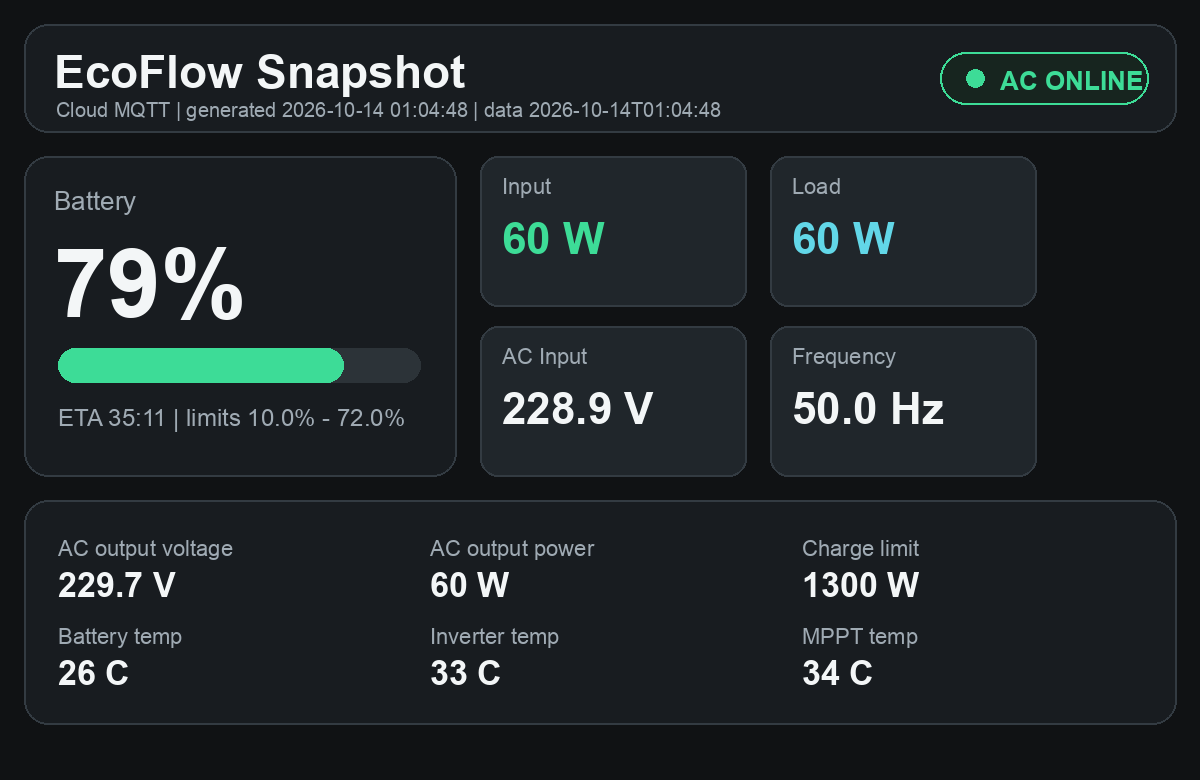
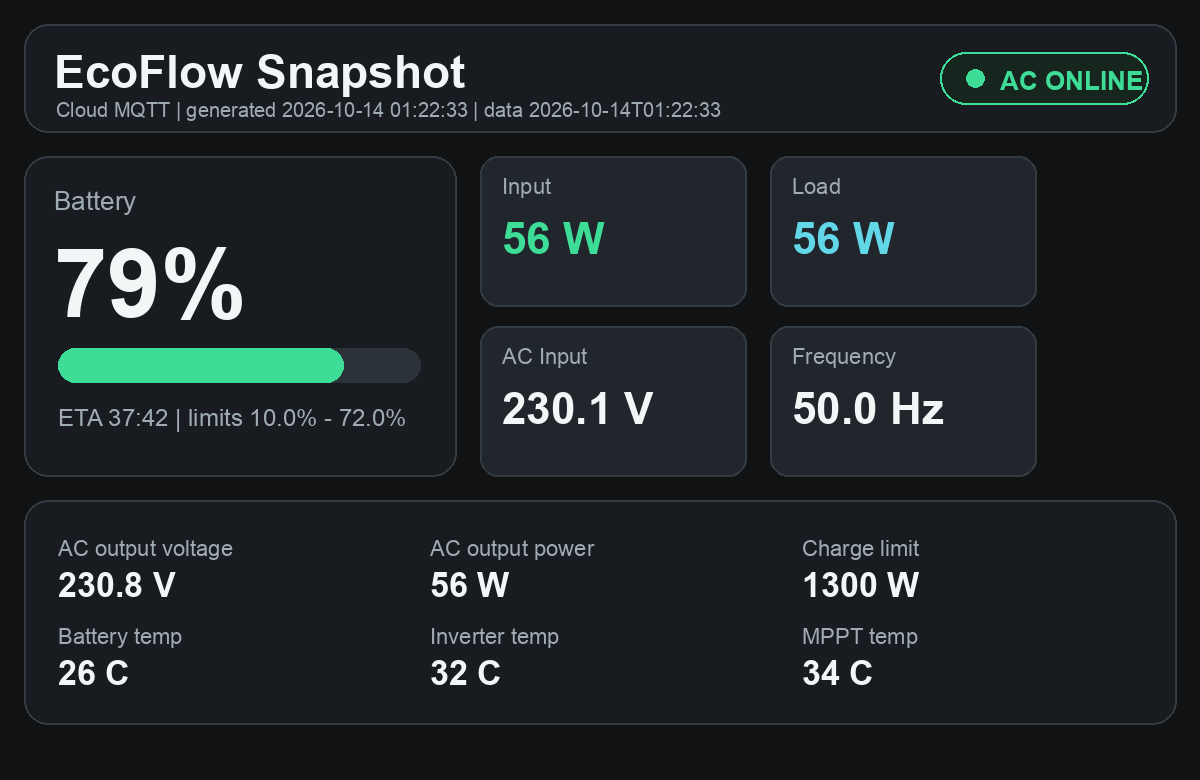
Update EcoFlow dashboard 2026-10-14 01:22:34

diff --git a/index.html b/index.html
@@ -177,7 +177,7 @@
   <header>
     <div>
       <h1>EcoFlow Snapshot</h1>
-      <div class="sub">Cloud MQTT · generated 2026-10-14T01:04:48 · data 2026-10-14T01:04:48</div>
+      <div class="sub">Cloud MQTT · generated 2026-10-14T01:22:33 · data 2026-10-14T01:22:33</div>
     </div>
     <div class="status online"><span class="dot"></span><span>AC online</span></div>
   </header>
@@ -189,22 +189,22 @@
       <h2>Battery</h2>
       <div class="value">79%</div>
       <div class="battery"><div class="fill"></div></div>
-      <div class="row"><span>ETA</span><span>35:11</span></div>
+      <div class="row"><span>ETA</span><span>37:42</span></div>
       <div class="row"><span>SOC limits</span><span>10.0% - 72.0%</span></div>
     </section>
     <section>
       <h2>AC</h2>
-      <div class="row"><span>Input voltage</span><span>228.9 V</span></div>
+      <div class="row"><span>Input voltage</span><span>230.1 V</span></div>
       <div class="row"><span>Input frequency</span><span>50.0 Hz</span></div>
-      <div class="row"><span>Output voltage</span><span>229.7 V</span></div>
+      <div class="row"><span>Output voltage</span><span>230.8 V</span></div>
     </section>
   </div>
 
   <div class="cards">
-    <div class="card"><span class="label">Input</span><span class="value">60 W</span></div>
-    <div class="card"><span class="label">Load</span><span class="value">60 W</span></div>
+    <div class="card"><span class="label">Input</span><span class="value">56 W</span></div>
+    <div class="card"><span class="label">Load</span><span class="value">56 W</span></div>
     <div class="card"><span class="label">Battery temp</span><span class="value">26°C</span></div>
-    <div class="card"><span class="label">Inverter temp</span><span class="value">33°C</span></div>
+    <div class="card"><span class="label">Inverter temp</span><span class="value">32°C</span></div>
   </div>
 
   
@@ -217,7 +217,7 @@
         <div class="daily-item"><span class="label">Зарядний ліміт</span><strong>1300 W</strong><small>пік входу 1228 W · 94% ліміту</small></div>
         <div class="daily-item"><span class="label">Заряджання</span><strong>3 хв</strong><small>останнє 14.10 00:29</small></div>
         <div class="daily-item"><span class="label">Розряджання</span><strong>0 сек</strong><small>--</small></div>
-        <div class="daily-item"><span class="label">Енергія вхід / вихід</span><strong>340 Wh / 279 Wh</strong><small>оцінка за sample-ами</small></div>
+        <div class="daily-item"><span class="label">Енергія вхід / вихід</span><strong>356 Wh / 295 Wh</strong><small>оцінка за sample-ами</small></div>
         <div class="daily-item"><span class="label">Частота min / max</span><strong>50.0 Hz / 50.0 Hz</strong><small>13.10 01:34 / 13.10 01:34</small></div>
       </div>
     </section>
@@ -243,28 +243,28 @@
   &quot;ok&quot;: true,
   &quot;source&quot;: &quot;Cloud MQTT&quot;,
   &quot;device&quot;: &quot;DELTA Pro&quot;,
-  &quot;timestamp&quot;: &quot;2026-10-14T01:04:48&quot;,
+  &quot;timestamp&quot;: &quot;2026-10-14T01:22:33&quot;,
   &quot;grid&quot;: true,
   &quot;battery&quot;: {
     &quot;soc&quot;: 79,
     &quot;min&quot;: 10.0,
     &quot;max&quot;: 72.0,
-    &quot;eta&quot;: &quot;35:11&quot;
+    &quot;eta&quot;: &quot;37:42&quot;
   },
   &quot;power&quot;: {
-    &quot;in&quot;: 60,
-    &quot;out&quot;: 60,
-    &quot;acOut&quot;: 60,
+    &quot;in&quot;: 56,
+    &quot;out&quot;: 56,
+    &quot;acOut&quot;: 56,
     &quot;chargeLimit&quot;: 1300
   },
   &quot;ac&quot;: {
-    &quot;inputVoltage&quot;: 228.933,
+    &quot;inputVoltage&quot;: 230.056,
     &quot;inputFreq&quot;: 50.0,
-    &quot;outputVoltage&quot;: 229.746
+    &quot;outputVoltage&quot;: 230.849
   },
   &quot;temps&quot;: {
     &quot;battery&quot;: 26,
-    &quot;inverter&quot;: 33,
+    &quot;inverter&quot;: 32,
     &quot;mppt&quot;: 34
   },
   &quot;history&quot;: [
@@ -328,16 +328,16 @@
   ],
   &quot;telemetry&quot;: {
     &quot;window&quot;: &quot;24h&quot;,
-    &quot;sample_count&quot;: 134,
+    &quot;sample_count&quot;: 148,
     &quot;from&quot;: &quot;2026-10-13T01:34:49&quot;,
-    &quot;to&quot;: &quot;2026-10-14T01:04:48&quot;,
+    &quot;to&quot;: &quot;2026-10-14T01:22:33&quot;,
     &quot;latest&quot;: {
       &quot;mode&quot;: &quot;idle&quot;,
       &quot;grid&quot;: true,
       &quot;soc&quot;: 79.0,
-      &quot;ac_v&quot;: 228.933,
-      &quot;in_w&quot;: 60.0,
-      &quot;out_w&quot;: 60.0,
+      &quot;ac_v&quot;: 230.056,
+      &quot;in_w&quot;: 56.0,
+      &quot;out_w&quot;: 56.0,
       &quot;charge_limit_w&quot;: 1300.0
     },
     &quot;voltage&quot;: {
@@ -383,16 +383,16 @@
       },
       &quot;charge_limit_w&quot;: 1300.0,
       &quot;max_input_pct_of_current_limit&quot;: 94,
-      &quot;input_wh_est&quot;: 340.1,
-      &quot;load_wh_est&quot;: 278.7
+      &quot;input_wh_est&quot;: 356.0,
+      &quot;load_wh_est&quot;: 294.6
     },
     &quot;modes&quot;: {
       &quot;charging_sec&quot;: 180,
       &quot;discharging_sec&quot;: 0,
-      &quot;idle_sec&quot;: 10755,
+      &quot;idle_sec&quot;: 11729,
       &quot;charging&quot;: &quot;3 хв&quot;,
       &quot;discharging&quot;: &quot;0 сек&quot;,
-      &quot;idle&quot;: &quot;2 год 59 хв&quot;,
+      &quot;idle&quot;: &quot;3 год 15 хв&quot;,
       &quot;last_charging&quot;: {
         &quot;ts&quot;: &quot;2026-10-14T00:29:00&quot;,
         &quot;grid&quot;: true,
